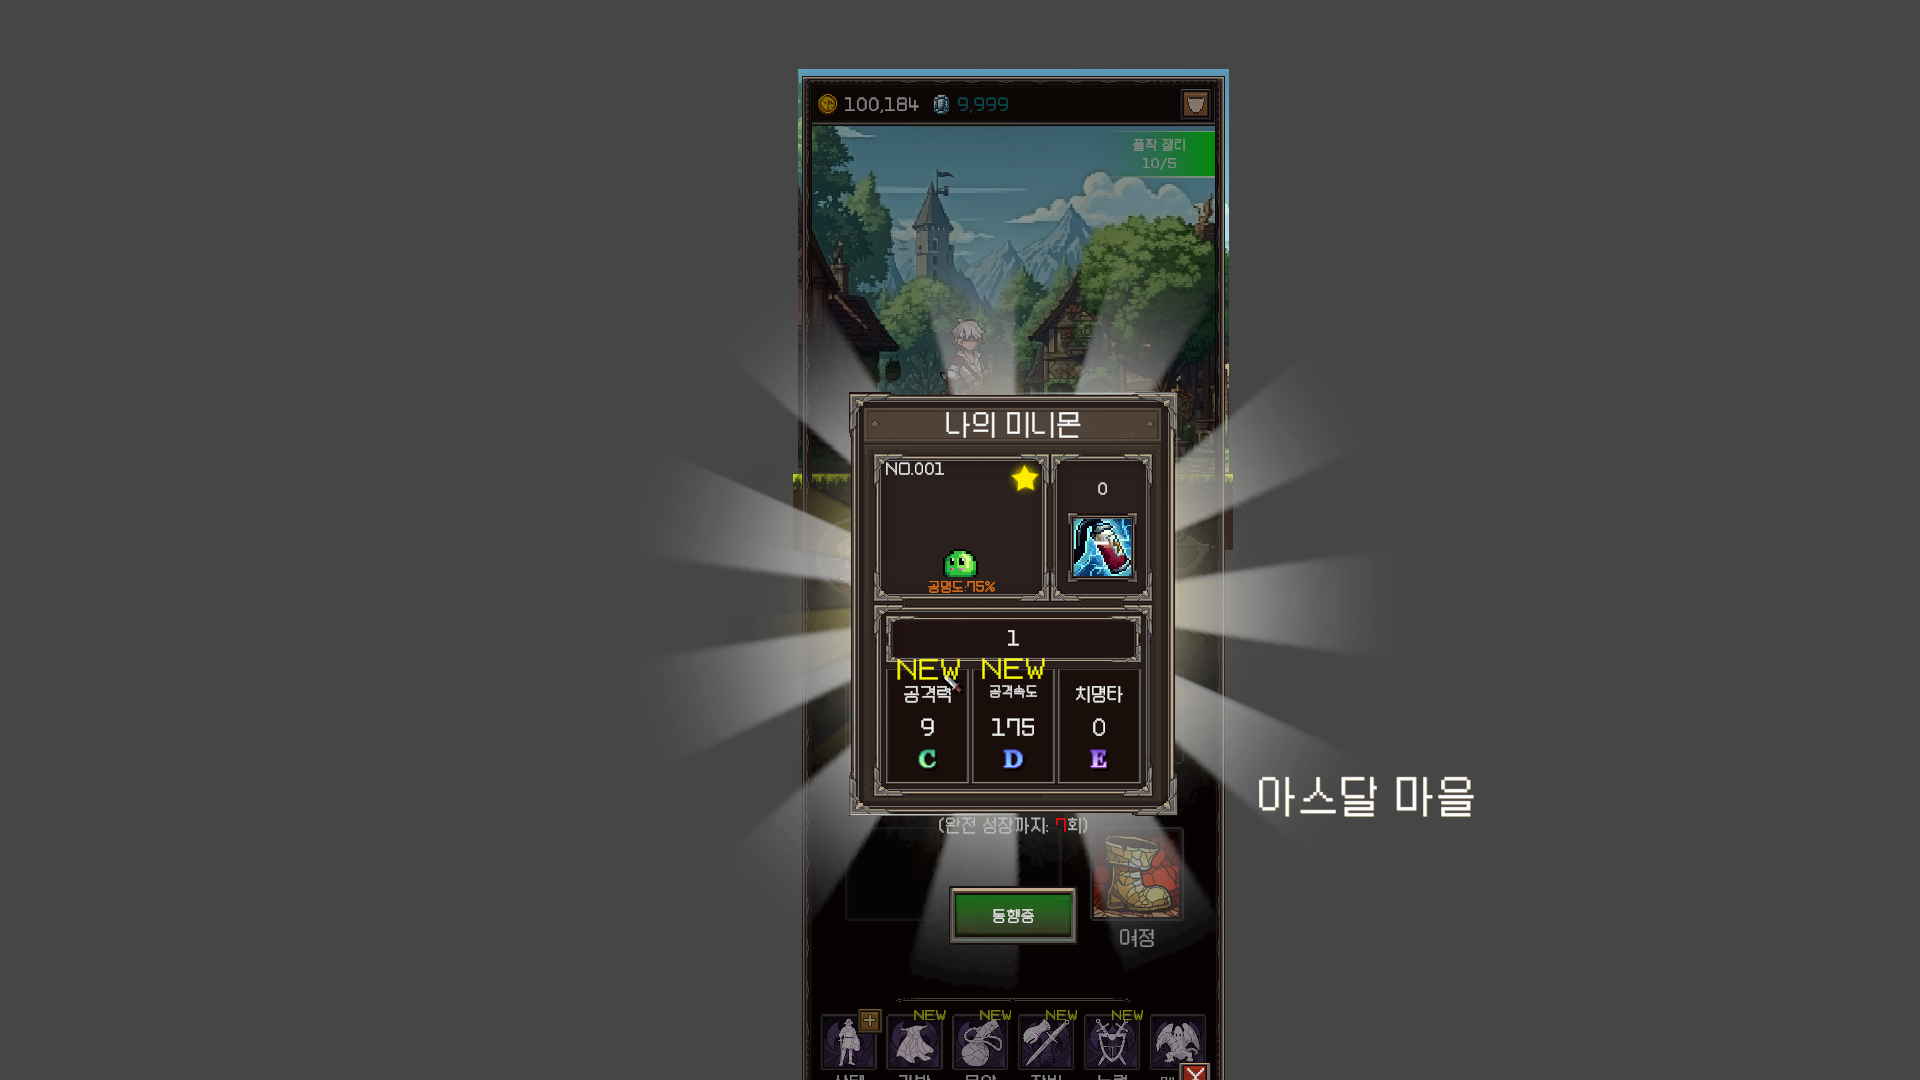
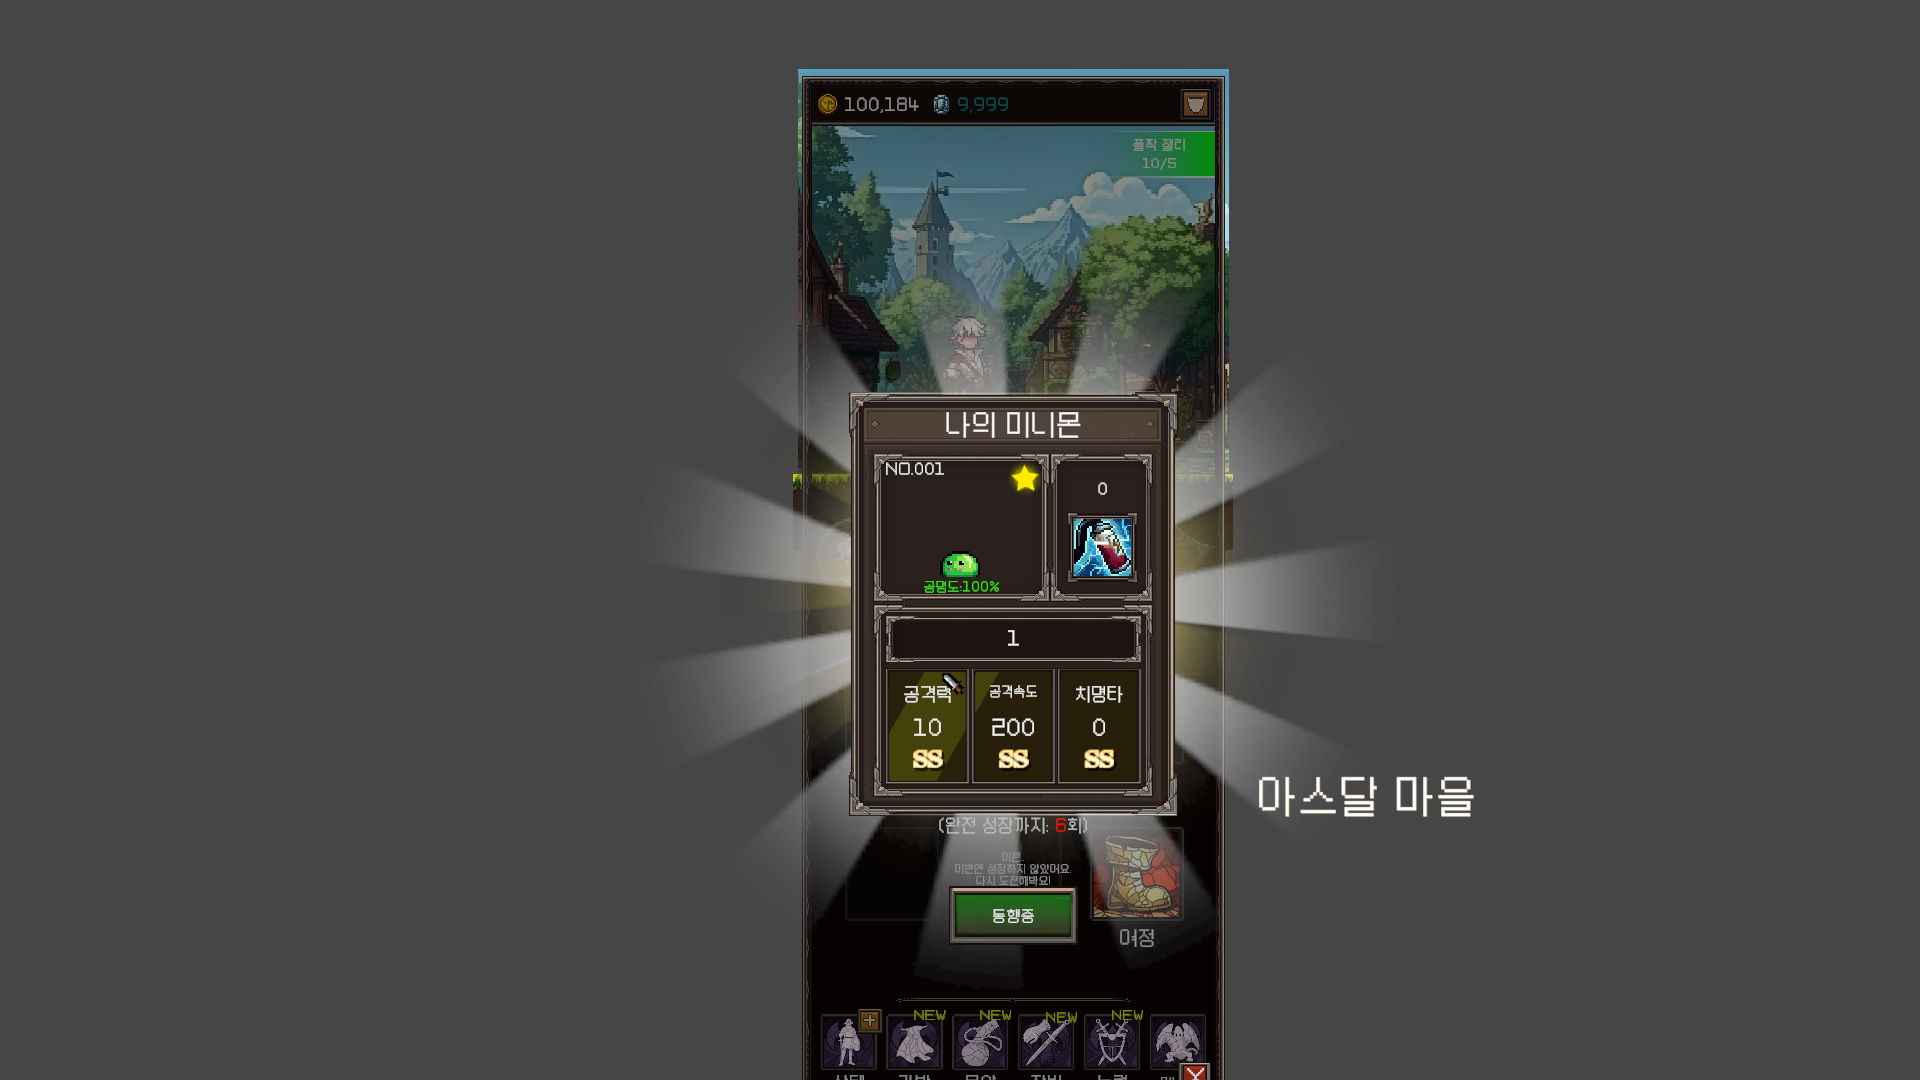
22번 슬라이드 재포획시 능력치 향상 실패

diff --git a/Assets/@Scripts/Editor/QuestVerifyMenu.cs b/Assets/@Scripts/Editor/QuestVerifyMenu.cs
@@ -331,17 +331,40 @@ public static class QuestVerifyMenu
         Spec("슬20", $"첫 포획: NEW 표시 + 창 뒤 GlowRays(회전+페이드) + 공명도 0→25% lerp + 능력치 랜덤 롤(40/30/15/8/5/2%). 결과: ATK={save.AtkGrade} AS={save.AtkSpeedGrade} CRIT={save.CritGrade}");
     }
 
-    [MenuItem("Test/Quest Verify/part2/Slide 21~22 - 재포획 (능력치 향상 시도, 2001)", false, 210)]
-    static void P2_S21_ReCatch()
+    // 슬21: 이미 보유한 미니몬을 또 잡았을 때 "능력치 향상될 때". 낮은 등급으로 세팅 후 향상될 때까지 재시도(결정적).
+    [MenuItem("Test/Quest Verify/part2/Slide 21 - 재포획 능력치 향상 (2001)", false, 210)]
+    static void P2_S21_ReCatchImproved()
     {
         if (!Require()) return;
-        Managers.Game.InterestedMinMons.Remove(2001);
-        Managers.MinMon.AddInterest(2001);
-        Managers.MinMon.TryCatch(2001, forceSuccess: true);
-        var info21 = Managers.UI.ShowPopupUI<UI_MinionInfoPopup>();
-        info21.SetInfo(2001);
-        info21.PlayCatchResult(Managers.MinMon.LastCatchWasFirst, Managers.MinMon.LastCatchImproved);
-        Spec("슬21~22", $"재포획. 향상={Managers.MinMon.LastCatchImproved}. 향상시: ATK→AS→CRIT 순차 Scale Anim + FullGrowthInText FadeIn 1.5s. 향상無: MinimonGrowthFailText 1.5s + FullGrowthInText FadeIn.");
+        var mm = Managers.MinMon;
+        var save = mm.GetSaveData(2001);
+        // 향상될 때까지 재시도: 매번 낮은 등급+공명도 2회로 리셋 후 재포획
+        bool ok = false;
+        for (int i = 0; i < 30; i++)
+        {
+            mm.DebugSetGrade(2001, 0, 0); mm.DebugSetGrade(2001, 1, 0); mm.DebugSetGrade(2001, 2, 0);
+            save.CaughtCount = 2; save.TameCount = Mathf.Max(save.TameCount, 2);
+            mm.TryCatch(2001, forceSuccess: true);
+            if (mm.LastCatchImproved) { ok = true; break; }
+        }
+        var info = Managers.UI.ShowPopupUI<UI_MinionInfoPopup>();
+        info.SetInfo(2001);
+        info.PlayCatchResult(mm.LastCatchWasFirst, mm.LastCatchImproved);
+        Spec("슬21", $"재포획 향상={ok}. ATK {mm.LastAtkGradePrev}->{mm.GetAtkGrade(2001)}({(mm.LastAtkImproved?"↑":"-")}) AS {mm.LastASGradePrev}->{mm.GetAtkSpeedGrade(2001)}({(mm.LastASImproved?"↑":"-")}) CRIT {mm.LastCritGradePrev}->{mm.GetCritGrade(2001)}({(mm.LastCritImproved?"↑":"-")}). 향상된 스탯만 Flip+Punch+VFX+NEW, 1초뒤 ATK→AS→CRIT 순. 모든 anim 끝나야 닫기 가능.");
+    }
+
+    // 슬22: 이미 보유한 미니몬을 또 잡았을 때 "능력치 향상되지 않을 때". 5/5/5(최대)로 막아 무조건 향상없음.
+    [MenuItem("Test/Quest Verify/part2/Slide 22 - 재포획 향상 없음 (2001)", false, 211)]
+    static void P2_S22_ReCatchNoImprove()
+    {
+        if (!Require()) return;
+        var mm = Managers.MinMon;
+        mm.DebugSetGrade(2001, 0, 5); mm.DebugSetGrade(2001, 1, 5); mm.DebugSetGrade(2001, 2, 5);
+        mm.TryCatch(2001, forceSuccess: true);
+        var info = Managers.UI.ShowPopupUI<UI_MinionInfoPopup>();
+        info.SetInfo(2001);
+        info.PlayCatchResult(mm.LastCatchWasFirst, mm.LastCatchImproved);
+        Spec("슬22", $"재포획 향상={mm.LastCatchImproved}(false 기대). NEW/VFX 미등장, 호출 1.5초뒤 MinimonGrowthFailText(\"성장하지 않았네요\") FadeIn → 0.5초뒤 FullGrowthInText FadeIn. 모든 anim 끝나야 닫기 가능.");
     }
 
     [MenuItem("Test/Quest Verify/part2/Slide 23 - 관심 알림 (Side Popup 성공)", false, 211)]

diff --git a/Assets/@Scripts/UI/Popup/UI_MinionInfoPopup.cs b/Assets/@Scripts/UI/Popup/UI_MinionInfoPopup.cs
@@ -134,8 +134,16 @@ public class UI_MinionInfoPopup : UI_Popup
     #endregion
 
     int _dataId;
+    bool _resultAnimPlaying;   // 슬20~22-d/g: 포획 결과 Anim 재생 중 닫기/상호작용 차단
 
     void Awake() => Init();
+
+    // 슬20~22-d/g: 결과 Anim이 모두 끝난 뒤에만 background/X 클릭으로 닫을 수 있다.
+    void OnClickBGGuarded()
+    {
+        if (_resultAnimPlaying) return;
+        OnClickBG();
+    }
 
     public override bool Init()
     {
@@ -155,8 +163,8 @@ public class UI_MinionInfoPopup : UI_Popup
         var block = GetImage((int)Images.MinionInfoPopupBlock);
         if (block != null) block.raycastTarget = false;
 
-        GetButton((int)Buttons.MinionInfoPopupBackground).gameObject.BindEvent(OnClickBG);
-        GetImage((int)Images.Xbutton).gameObject.BindEvent(OnClickBG);
+        GetButton((int)Buttons.MinionInfoPopupBackground).gameObject.BindEvent(OnClickBGGuarded);
+        GetImage((int)Images.Xbutton).gameObject.BindEvent(OnClickBGGuarded);
         GetButton((int)Buttons.MinionUsingSkillIcon).gameObject.BindEvent(OnClickSkill);
         GetButton((int)Buttons.MinionSummonButton).gameObject.BindEvent(OnClickSummon);
         GetButton((int)Buttons.MinionSummonedButton).gameObject.BindEvent(OnClickUnsummon);
@@ -497,6 +505,12 @@ public class UI_MinionInfoPopup : UI_Popup
     //  공통(포획 호출): GlowRays(창 뒤) + 공명도 lerp. (미니몬 기록 통해 연 창엔 호출 안 됨)
     public void PlayCatchResult(bool first, bool improved)
     {
+        _resultAnimPlaying = true;   // 슬20~22-d/g: 결과 Anim 끝날 때까지 닫기 차단
+
+        // 포획 결과창(첫 포획/재포획)에선 부르기/동행중 버튼 그룹 비표시 (미니몬 기록서 연 창에서만 노출)
+        var btnGroup = GetObject((int)GameObjects.MinionInfoPopupButtonGroup);
+        if (btnGroup != null) btnGroup.SetActive(false);
+
         var newTxt = GetText((int)Texts.MinionNewText);
         if (newTxt != null) newTxt.gameObject.SetActive(first);
 
@@ -513,14 +527,19 @@ public class UI_MinionInfoPopup : UI_Popup
         else StartCoroutine(CoFadeInFullGrowth(1.5f));   // 첫 포획: 공명도 lerp(1s) 후 FadeIn
     }
 
-    // 슬21-f/22-c: FullGrowthInText를 delay 뒤 1.5초에 걸쳐 FadeIn.
+    // 슬21-f/22-c: FullGrowthInText를 delay 뒤 1.5초에 걸쳐 FadeIn. (포획 연출의 마지막 Anim)
+    //  FadeIn 완료 시점에 _resultAnimPlaying 해제 → 이후 background 클릭으로 닫기 허용(슬20~22-d/g).
     IEnumerator CoFadeInFullGrowth(float delay)
     {
         var fg = GetText((int)Texts.GuranteedText);
-        if (fg == null) yield break;
-        var c = fg.color; c.a = 0f; fg.color = c;
-        yield return new WaitForSecondsRealtime(delay);
-        fg.DOFade(1f, 1.5f).SetUpdate(true);
+        if (fg != null)
+        {
+            var c = fg.color; c.a = 0f; fg.color = c;
+            yield return new WaitForSecondsRealtime(delay);
+            fg.DOFade(1f, 1.5f).SetUpdate(true);
+            yield return new WaitForSecondsRealtime(1.5f);
+        }
+        _resultAnimPlaying = false;
     }
 
     // 슬20: [나의 미니몬] 창 뒤에 GlowRays 표시 (포획으로 호출됐을 때만). 느린 회전 + 페이드 인.
